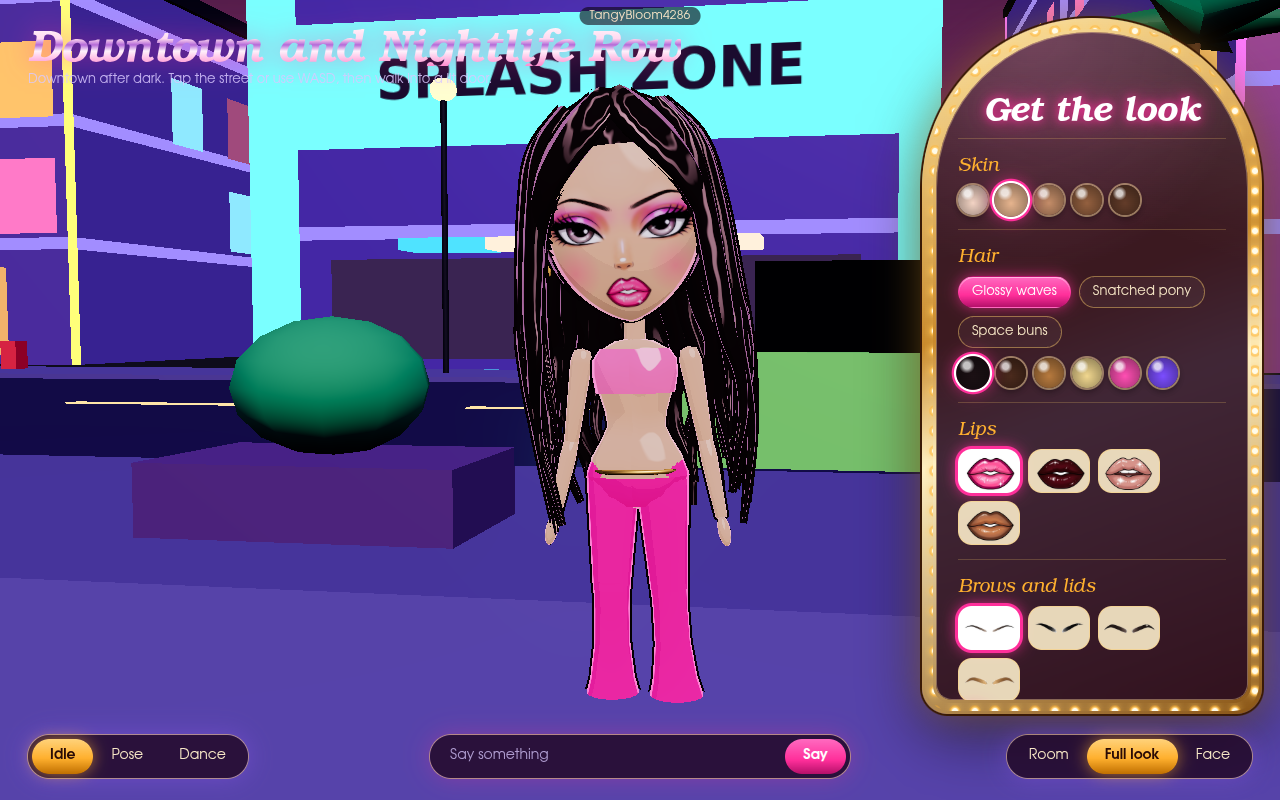
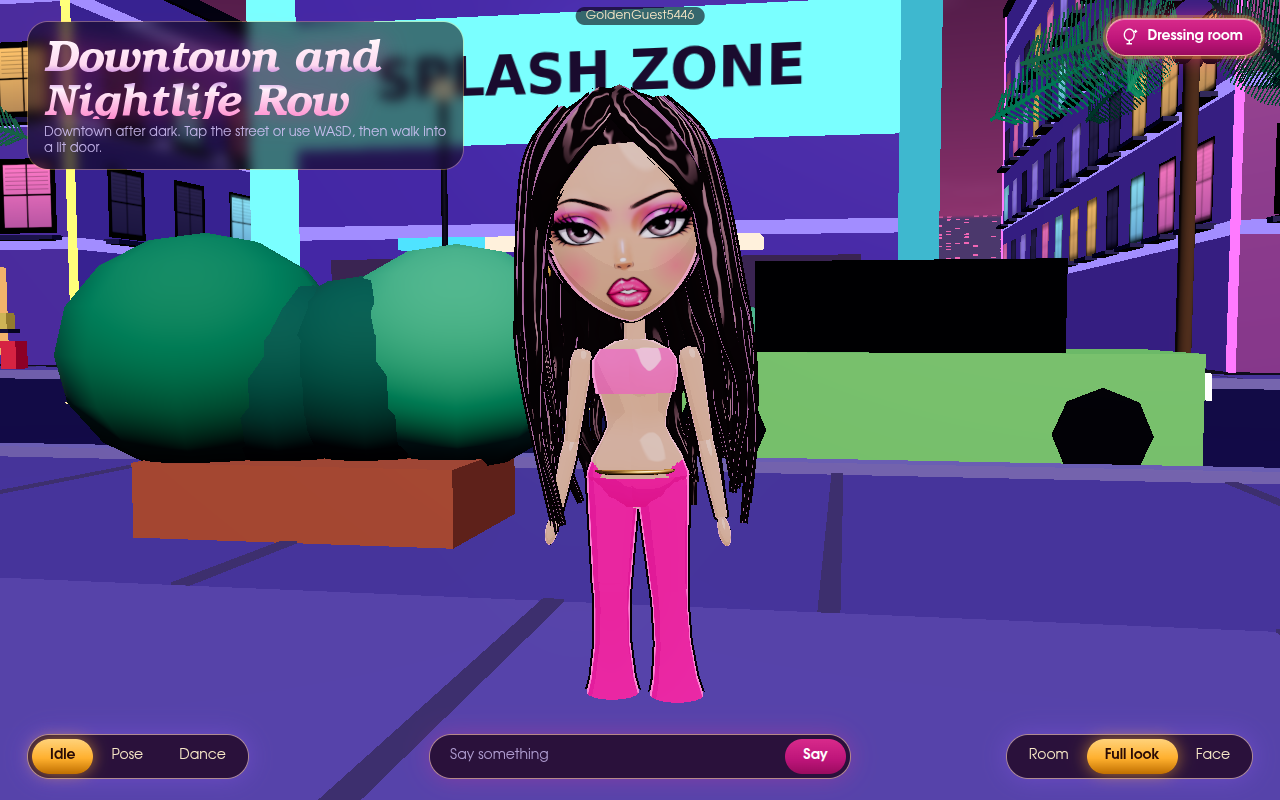
feat(city): detail pass with window frames, balconies, rooftop kit, curbs, crosswalks, palms and sky

diff --git a/src/game/city/plan.ts b/src/game/city/plan.ts
@@ -268,10 +268,7 @@ function touching(
   a: Box,
   b: Box,
 ): { axis: "x" | "z"; line: number; lo: number; hi: number } | null {
-  const shared = (
-    lo: number,
-    hi: number,
-  ): { lo: number; hi: number } | null =>
+  const shared = (lo: number, hi: number): { lo: number; hi: number } | null =>
     hi - lo > CURB_EPS ? { lo, hi } : null;
   for (const [edge, other] of [
     [a.z1, b.z0],
@@ -293,7 +290,12 @@ function touching(
 }
 
 /** Each box as an instance in the cells it overlaps. */
-function pieces(box: Box, cells: readonly Cell[], out: Instance[], m: Partial<Instance>): void {
+function pieces(
+  box: Box,
+  cells: readonly Cell[],
+  out: Instance[],
+  m: Partial<Instance>,
+): void {
   for (const cell of cells) {
     const p = overlap(box, cell);
     if (!p) continue;
@@ -313,7 +315,10 @@ function pieces(box: Box, cells: readonly Cell[], out: Instance[], m: Partial<In
  * Curbs, zebra crossings, manholes and sidewalk seams: the marks that make a
  * street read as a street rather than a flat stripe of colour.
  */
-function streetMarks(cells: readonly Cell[], out: Record<Kind, Instance[]>): void {
+function streetMarks(
+  cells: readonly Cell[],
+  out: Record<Kind, Instance[]>,
+): void {
   const inCells = (x: number, z: number) =>
     cells.some((c) => cellAt([x, z]).key === c.key);
 
@@ -325,8 +330,18 @@ function streetMarks(cells: readonly Cell[], out: Record<Kind, Instance[]>): voi
       const half = 0.12;
       const lip: Box =
         edge.axis === "z"
-          ? { x0: edge.lo, x1: edge.hi, z0: edge.line - half, z1: edge.line + half }
-          : { x0: edge.line - half, x1: edge.line + half, z0: edge.lo, z1: edge.hi };
+          ? {
+              x0: edge.lo,
+              x1: edge.hi,
+              z0: edge.line - half,
+              z1: edge.line + half,
+            }
+          : {
+              x0: edge.line - half,
+              x1: edge.line + half,
+              z0: edge.lo,
+              z1: edge.hi,
+            };
       pieces(lip, cells, out.ledge, { y: 0.11, sy: 0.22, color: CURB_COLOR });
     }
   }
@@ -340,20 +355,34 @@ function streetMarks(cells: readonly Cell[], out: Record<Kind, Instance[]>): voi
       if (!I) continue;
       for (const road of [a, b]) {
         const vertical = road.z1 - road.z0 > road.x1 - road.x0;
-        const ends = vertical
-          ? [I.z0 - 2, I.z1 + 2]
-          : [I.x0 - 2, I.x1 + 2];
+        const ends = vertical ? [I.z0 - 2, I.z1 + 2] : [I.x0 - 2, I.x1 + 2];
         for (const end of ends) {
           for (let k = -1.2; k <= 1.2; k += 0.8) {
             const at = end + k;
             if (vertical) {
               const x = (road.x0 + road.x1) / 2;
               if (!inCells(x, at)) continue;
-              out.lane.push({ x, y: 0.045, z: at, sx: road.x1 - road.x0, sy: 0.02, sz: 0.4, color: ZEBRA_COLOR });
+              out.lane.push({
+                x,
+                y: 0.045,
+                z: at,
+                sx: road.x1 - road.x0,
+                sy: 0.02,
+                sz: 0.4,
+                color: ZEBRA_COLOR,
+              });
             } else {
               const z = (road.z0 + road.z1) / 2;
               if (!inCells(at, z)) continue;
-              out.lane.push({ x: at, y: 0.045, z, sx: 0.4, sy: 0.02, sz: road.z1 - road.z0, color: ZEBRA_COLOR });
+              out.lane.push({
+                x: at,
+                y: 0.045,
+                z,
+                sx: 0.4,
+                sy: 0.02,
+                sz: road.z1 - road.z0,
+                color: ZEBRA_COLOR,
+              });
             }
           }
         }
@@ -370,10 +399,23 @@ function streetMarks(cells: readonly Cell[], out: Record<Kind, Instance[]>): voi
       const x = vertical ? (road.x0 + road.x1) / 2 + 2.2 : at;
       const z = vertical ? at : (road.z0 + road.z1) / 2 + 2.2;
       const clear = ROAD_SURFACES.every(
-        (o) => o === road || x < o.x0 - 4 || x > o.x1 + 4 || z < o.z0 - 4 || z > o.z1 + 4,
+        (o) =>
+          o === road ||
+          x < o.x0 - 4 ||
+          x > o.x1 + 4 ||
+          z < o.z0 - 4 ||
+          z > o.z1 + 4,
       );
       if (clear && inCells(x, z)) {
-        out.lane.push({ x, y: 0.05, z, sx: 1.1, sy: 0.03, sz: 1.1, color: MANHOLE_COLOR });
+        out.lane.push({
+          x,
+          y: 0.05,
+          z,
+          sx: 1.1,
+          sy: 0.03,
+          sz: 1.1,
+          color: MANHOLE_COLOR,
+        });
       }
     }
   }
@@ -507,7 +549,11 @@ function propInstances(
       });
     }
     // coconuts tucked under the crown
-    for (const [dx, dz] of [[0.3, 0.2], [-0.25, 0.3], [0.1, -0.3]]) {
+    for (const [dx, dz] of [
+      [0.3, 0.2],
+      [-0.25, 0.3],
+      [0.1, -0.3],
+    ]) {
       out.treeCanopy.push({
         x: x + dx,
         y: 6.3,

diff --git a/src/game/city/detail.ts b/src/game/city/detail.ts
@@ -51,8 +51,24 @@ export function detailBuilding(b: Building, f: Front, out: Buckets): void {
   // an antenna with a red light blinking at the top
   const ax = f.x1 - 1.2;
   const az = f.z0 + 1.2;
-  out.pole.push({ x: ax, y: top + 2.2, z: az, sx: 0.12, sy: 4.4, sz: 0.12, color: "#8a8aa8" });
-  out.bulb.push({ x: ax, y: top + 4.5, z: az, sx: 0.3, sy: 0.3, sz: 0.3, color: "#ff3b4f" });
+  out.pole.push({
+    x: ax,
+    y: top + 2.2,
+    z: az,
+    sx: 0.12,
+    sy: 4.4,
+    sz: 0.12,
+    color: "#8a8aa8",
+  });
+  out.bulb.push({
+    x: ax,
+    y: top + 4.5,
+    z: az,
+    sx: 0.3,
+    sy: 0.3,
+    sz: 0.3,
+    color: "#ff3b4f",
+  });
   // a rooftop neon bar on about a third of the buildings
   const sign = hash(f.cx, f.cz, 20);
   if (sign < 0.35) {
@@ -172,12 +188,27 @@ export function detailBuilding(b: Building, f: Front, out: Buckets): void {
   }
 }
 
-function put(out: Placed[], kind: "treeCanopy" | "pole" | "furniture" | "bulb", x: number, y: number, z: number, sx: number, sy: number, sz: number, color: string): void {
+function put(
+  out: Placed[],
+  kind: "treeCanopy" | "pole" | "furniture" | "bulb",
+  x: number,
+  y: number,
+  z: number,
+  sx: number,
+  sy: number,
+  sz: number,
+  color: string,
+): void {
   out.push({ at: [x, z], kind, instance: { x, y, z, sx, sy, sz, color } });
 }
 
 /** A planter box with a clump of leaves, sitting on the pavement at (x, z). */
-export function planter(out: Placed[], x: number, z: number, seed: number): void {
+export function planter(
+  out: Placed[],
+  x: number,
+  z: number,
+  seed: number,
+): void {
   put(out, "furniture", x, 0.25, z, 1.6, 0.5, 1, PLANTER);
   for (let k = 0; k < 4; k++) {
     const r = hash(seed, k, 50);
@@ -185,11 +216,11 @@ export function planter(out: Placed[], x: number, z: number, seed: number): void
       out,
       "treeCanopy",
       x + (k - 1.5) * 0.4,
-      0.85 + r * 0.2,
+      0.7 + r * 0.15,
       z + (hash(seed, k, 51) - 0.5) * 0.4,
-      0.9 + r * 0.6,
-      0.8 + r * 0.5,
-      0.9 + r * 0.6,
+      0.5 + r * 0.3,
+      0.45 + r * 0.25,
+      0.5 + r * 0.3,
       pick(LEAF, r),
     );
   }

diff --git a/src/game/city/dressing.ts b/src/game/city/dressing.ts
@@ -513,7 +513,18 @@ function car(
     sy: 0.7,
     sz: 1.75,
     rot,
-    color: "#120c24",
+    color: "#5a4aa8",
+  });
+  // a roof slab over the glass, so the cabin reads as a car and not a black box
+  put(out, "car", {
+    x,
+    y: 1.68,
+    z,
+    sx: 2.1,
+    sy: 0.1,
+    sz: 1.8,
+    rot,
+    color: pick(CAR_COLORS, r),
   });
   // four wheels, tyres turned across the car, and two headlights at the nose
   const c = Math.cos(yaw);
